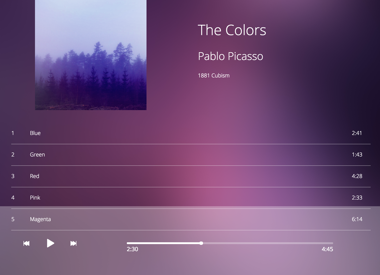
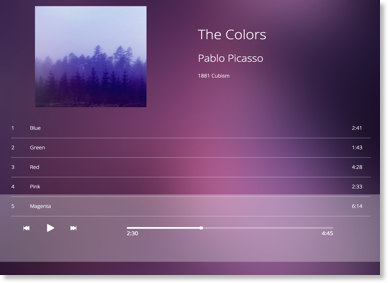
Coded new layout

diff --git a/css/styles.css b/css/styles.css
@@ -50,7 +50,7 @@ h5 {
 }
 
 p {
-  font-size: 1.28rem;
+  font-size: 1.25rem;
   font-weight: lighter;
 }
 
@@ -67,92 +67,134 @@ a:hover {
   color: red;
 }
 
-/* Grid Layour */
+/* Header Grid Layout */
 
-.wrapper {
-  max-width: 960px;
+.header {
+  max-width: 1024px;
+  margin: 0 auto;
   display: grid;
-  grid-template-columns: repeat(10, 60px);
+  grid-template-columns: repeat(12, 60px);
   grid-column-gap: 20px;
 }
 
 .profile-img {
-  grid-column: 3;
+  grid-column: 2;
   grid-row: 1;
 }
 
 .profile-header {
-  grid-column: 6;
+  grid-column: 5 / span 8;
   grid-row: 1;
   padding-top: 2vw;
 }
 
 .profile-paragraph {
-  grid-column: 7 / 24;
+  grid-column: 6 / span 7;
   grid-row: 1;
   padding-top: 9vw;
 }
 
-.featured-work {
-  grid-column: 3 / 10;
-  grid-row: 2;
-  padding-top: 8vw;
+/* Main Content Grid Layout */
+
+.wrapper {
+  max-width: 1024px;
+  margin: 0 auto;
+  display: grid;
+  grid-template-columns: repeat(12, 60px);
+  grid-column-gap: 20px;
 }
 
-.cumulus-logo {
-  grid-column: 5;
-  grid-row: 3;
-  padding-top: 6vw;
+.featured-work {
+  grid-column: 1 / span 6;
+  grid-row: 1;
+  padding: 80px 0 50px 0;
+}
+
+.cumulus-background {
+  background-color: #81EA97;
+  height: 275px;
+  width: 380px;
+  grid-column: 1;
+  grid-row: 2;
+}
+
+.cumulus-img {
+  grid-column: 1;
+  grid-row: 2;
+  padding: 20px 0 0 20px;
 }
 
 .cumulus-header {
-  grid-column: 3 / 10;
+  grid-column: 1 / 7;
   grid-row: 4;
-  padding-top: 2vw;
+  padding-top: 1vw;
 }
 
 .cumulus-paragraph {
-  grid-column: 3 / 10;
+  grid-column: 1 / span 6;
   grid-row: 5;
   padding-top: 1vw;
 }
 
-.cumulus-img {
-  grid-column: 10 / 24;
-  grid-row: 3 / 6;
-  padding-top: 6vw;
+.blocjams-background {
+  background-color: #E32664;
+  height: 275px;
+  width: 380px;
+  grid-column: 8;
+  grid-row: 5;
 }
 
 .blocjams-img {
-  grid-column: 3 / 8;
-  grid-row: 7 / 10;
-  padding-top: 6vw;
-}
-
-.blocjams-logo {
-  grid-column: 10 / 12;
-  grid-row: 7;
-  padding-top: 7vw;
+  grid-column: 8;
+  grid-row: 5;
+  padding: 20px 0 0 20px;
 }
 
 .blocjams-header {
-  grid-column: 8 / 23;
+  grid-column: 8 / span 6;
   grid-row: 8;
-  padding-top: 2vw;
+  padding-top: 1vw;
 }
 
 .blocjams-paragraph {
-  grid-column: 8 / 23;
+  grid-column: 8 / span 6;
   grid-row: 9;
   padding-top: 1vw;
+}
+
+.responsive-site-background {
+  background-color: #333333;
+  height: 275px;
+  width: 380px;
+  grid-column: 1;
+  grid-row: 9;
+}
+
+.responsive-site-img {
+  grid-column: 1;
+  grid-row: 9;
+}
+
+.responsive-site-header {
+  grid-column: 1 / span 7;
+  grid-row: 9;
+  padding-top: 21vw;
+}
+
+.responsive-site-paragraph {
+  grid-column: 1 / span 6;
+  grid-row: 9;
+  padding-top: 23vw;
 }
 
 /* Content Styling */
 
 nav {
+  max-width: 1024px;
+  margin: 0 auto;
   display: flex;
   justify-content: space-between;
-  padding: 20px 30px 8vw 30px;
+  padding: 30px 0 75px 0;
 }
 
 .nav-right ul {
@@ -164,9 +206,11 @@ nav {
 }
 
 footer {
+  max-width: 1024px;
+  margin: 0 auto;
   display: flex;
   justify-content: space-between;
-  padding: 100px 30px 30px 30px;
+  padding: 50px 0 30px 0;
 }
 
 .footer-right ul {

diff --git a/index.html b/index.html
@@ -18,28 +18,33 @@
     </div>
     <div class="nav-right">
       <ul>
-        <li class="nav-footer-spacing">Work</li>
-        <li>About</li>
+        <li class="nav-footer-spacing"><a href="#">Work</a></li>
+        <li><a href="#">About</a></li>
       </ul>
     </div>
   </nav>
 
-  <div class="wrapper">
+  <div class="header">
     <div class="profile-img">
-      <img src="images/profile-img.jpg" alt="profile image" />
+      <img src="images/jerryprofileimg.png" alt="profile image" />
     </div>
     <div class="profile-header">
-      <h1>Designer,<h1>
+      <h1>Web Designer<h1>
     </div>
     <div class="profile-paragraph">
       <h3>Passionate about experience design. From idea to solution I’m focused on creating strong stories to help build better products. Currently based out of NYC.</h3>
     </div>
+  </div>
+
+  <div class="wrapper">
     <div class ="featured-work">
-      <h2>-Featured Work-</h2>
+      <h2>Featured Work</h2>
     </div>
 
-    <div class="cumulus-logo">
-      <img src="images/Cumulus-logo.png" alt="cumulus logo" />
+    <div class="cumulus-background">
+    </div>
+    <div class="cumulus-img">
+      <img src="images/cumulusimac.png" alt="cumulus screenshot" />
     </div>
     <div class="cumulus-header">
       <h5>UX/UI Design. Branding. Web Application</h5>
@@ -47,21 +52,29 @@
     <div class="cumulus-paragraph">
       <p>There are many software programs, websites and apps that allow users to save notes, images and links but none that can achieve all of these goals and be user friendly. Check out my case study to see how I solved this issue.</p>
     </div>
-    <div class="cumulus-img">
-      <img src="images/cumulusimac.jpg" alt="cumulus screenshot" />
-    </div>
 
+    <div class="blocjams-background">
+    </div>
     <div class="blocjams-img">
       <img src="images/blocjamsscreencapture.png" alt="blocjams screenshot" />
-    </div>
-    <div class="blocjams-logo">
-      <img src="images/bloc_jams_logo.png" alt="cumulus logo" />
     </div>
     <div class="blocjams-header">
       <h5>Web Application Development</h5>
     </div>
     <div class="blocjams-paragraph">
       <p>During my design apprenticeship I learned to build a music player using HTML, CSS, JQuery and JavaScript. I also learned how to use API’s to make it a functional application.</p>
+    </div>
+
+    <div class="responsive-site-background">
+    </div>
+    <div class="responsive-site-img">
+      <img src="images/responsivesite.png" alt="responsive site screenshot" />
+    </div>
+    <div class="responsive-site-header">
+      <h5>Mobile Responsive Redesign</h5>
+    </div>
+    <div class="responsive-site-paragraph">
+      <p>There are many software programs, websites and apps that allow users to save notes, images and links but none that can achieve all of these goals and be user friendly. Check out my case study to see how I solved this issue.</p>
     </div>
   </div>
 
